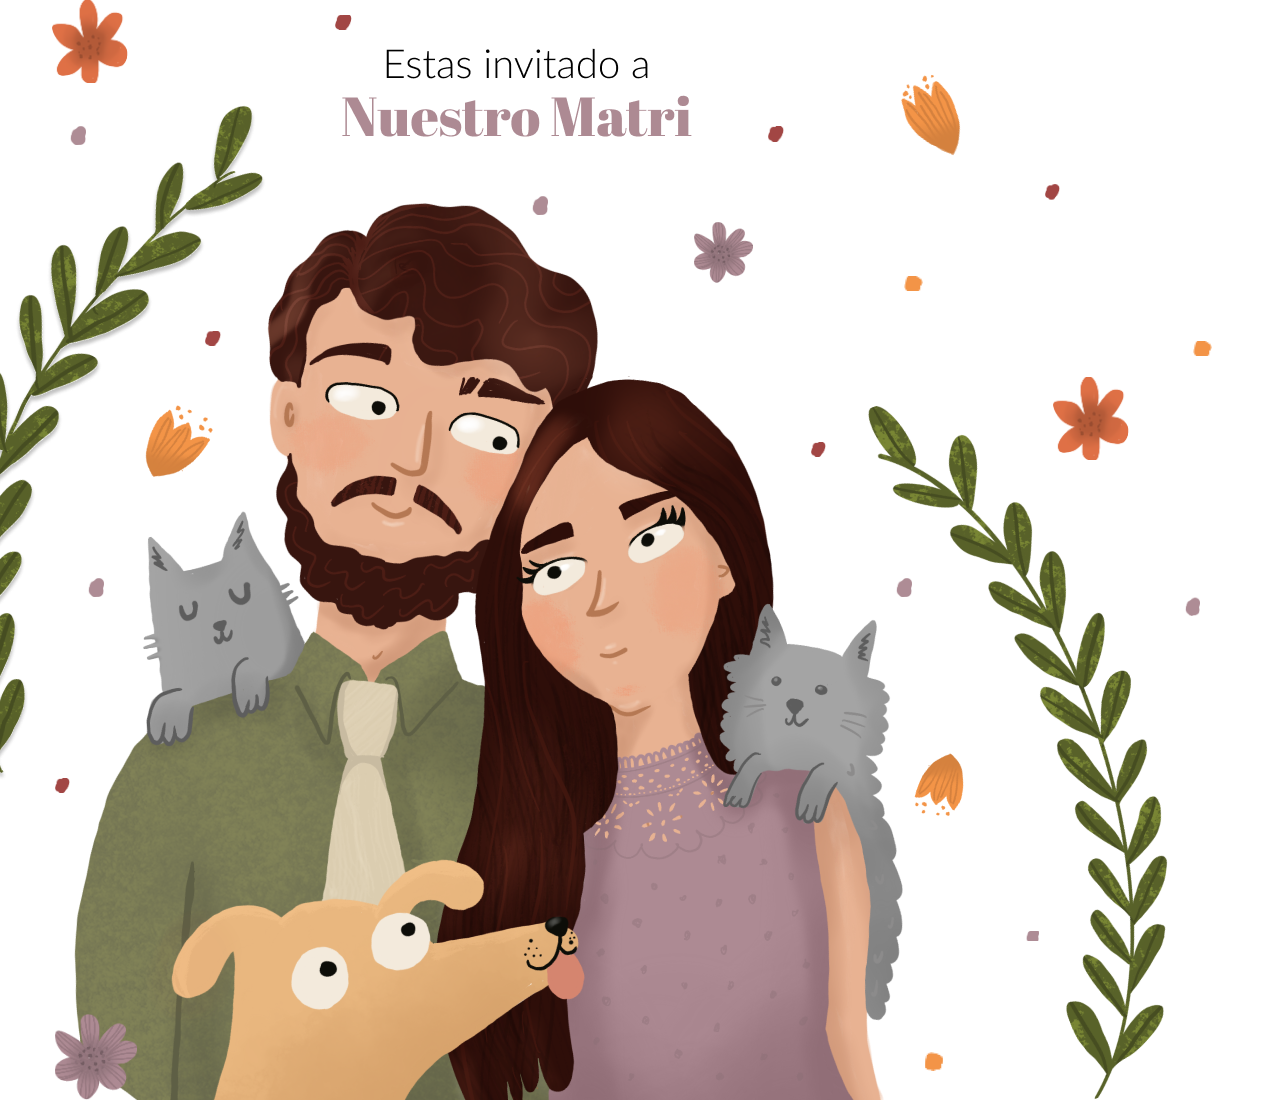
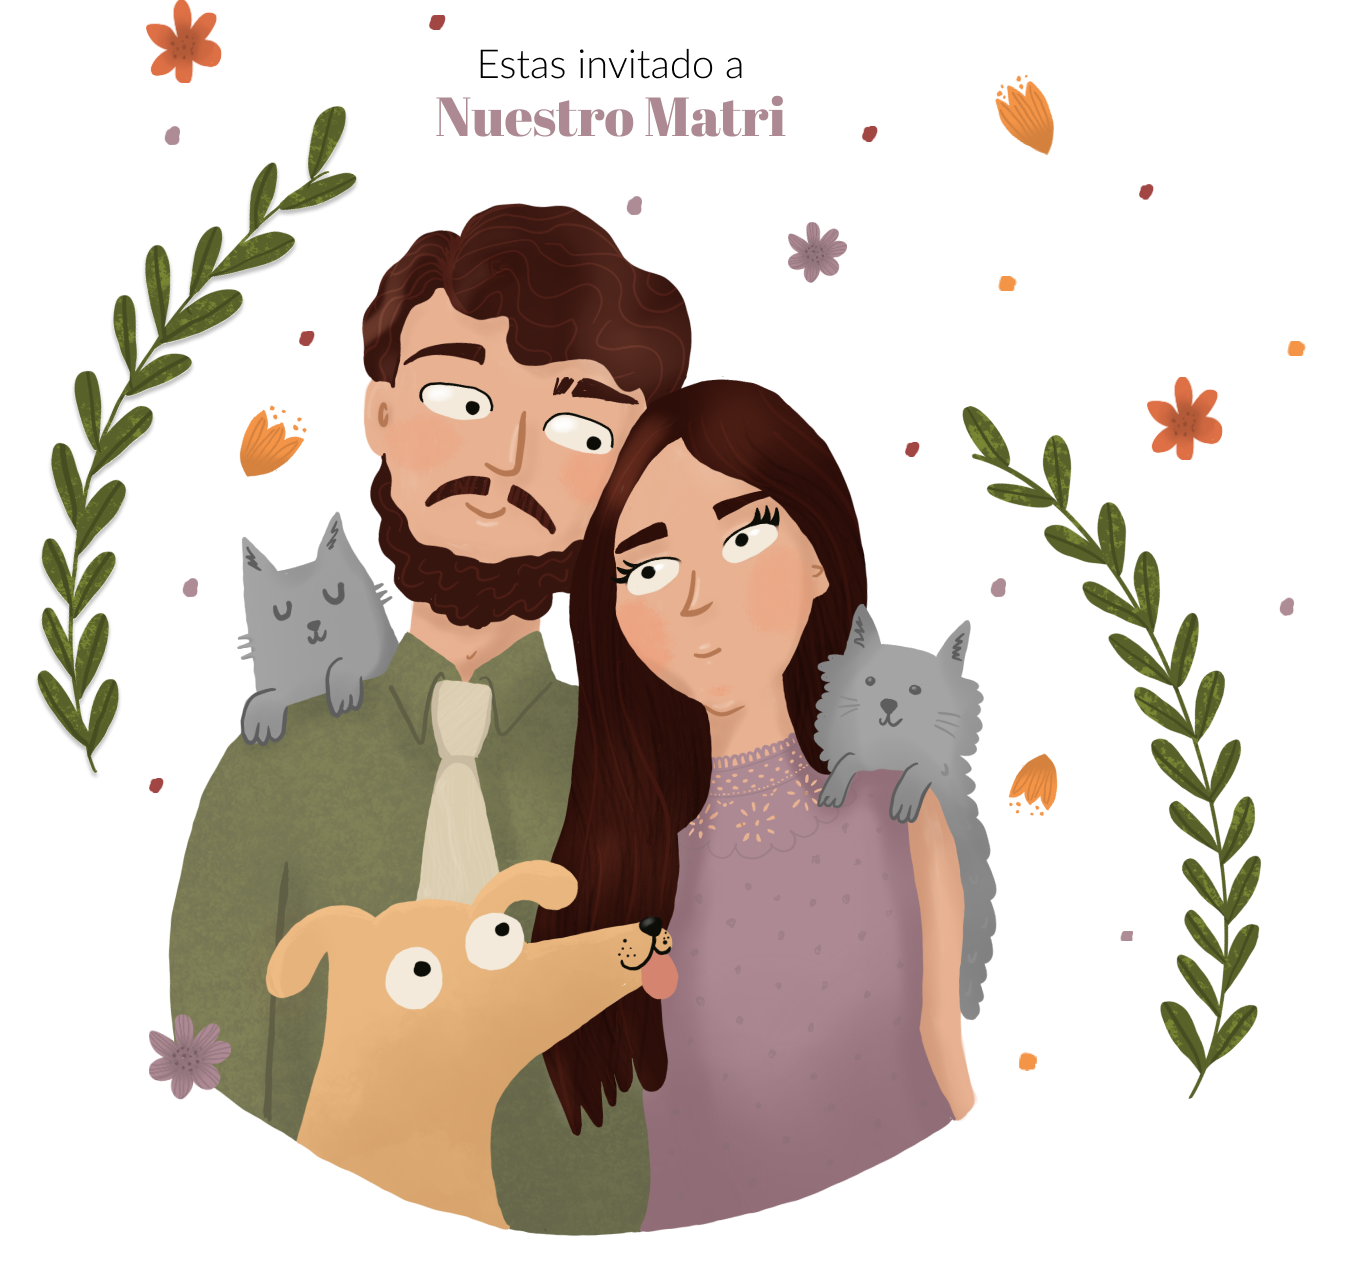
desktop view responsive

diff --git a/public/stylesheets/style.css b/public/stylesheets/style.css
@@ -1,8 +1,13 @@
+html{
+  min-height: 100%;
+  background-color: #F3EADA;
+}
 body{
   font-family: 'Abril Fatface', cursive;
   font-size: 2vmin;
   margin: 0;
   height: 100vh;
+
 }
 main{
   background-image: url("../images/portada.png");
@@ -14,7 +19,7 @@ main{
 .nav{
   overflow: hidden;
   position: absolute;
-  bottom: 0;
+  bottom: -10%;
   width: 100%;
   height: 45%;
   display: flex;
@@ -224,7 +229,7 @@ button{
 .form-overlay{
   position: fixed;
   z-index: 1;
-  width: 100%;
+  width: 100vh;
   overflow: auto;
   pointer-events: none;
   bottom: 0;
@@ -249,13 +254,14 @@ right: 0;
   color: #385420;
   display: flex;
   flex-direction: column;
+  margin-top: 10vh;
 }
 
 .form-header{
 display: grid;
 grid-template-columns: repeat(6, 1fr);
 gap: 5px;
-padding: 2vh 2vh 0 3vh;
+padding: 6vh 2vh 0 3vh;
 
 }
 .form-title{
@@ -281,6 +287,7 @@ margin: 2vh 0 0 0;
 padding: 0 3em 0 3em;
 text-align: start;
 height: 100%;
+margin-top: 25px;
 }
 .form-body p{
 font-size: 2.5vmax;
@@ -386,7 +393,7 @@ input.radio{
 
 .tab{
   display: none;
-  position: absolute;
+  position: relative;
   z-index: 1;
   width: 100%;
   overflow: auto;
@@ -436,35 +443,172 @@ input.radio{
 @media only screen and (min-width: 400px) {
   main{
     background-image: url("../images/portada_escritorio.png");
-    background-size: contain;
+    background-size: 65%;
     background-attachment: fixed;
     background-repeat: no-repeat;
-    background-position: left;
+    background-position: 1% 16%;
     height: 100%;
   }
-
   .nav{
     right: 0;
-    width: 40%;
+    width: 46%;
     height: 100%;
+    justify-content: normal;
+    align-items: flex-end;
   
   }
   .nav::after{
-    content:'';
-    position:absolute;
-    bottom:60%;
-    width:100%;
-    height:100%;
-    border-radius:100%;
-    box-shadow: 0px 300px 0px 300px #385420;
+    content: '';
+    position: absolute;
+    bottom: -18%;
+    width: 185%;
+    height: 139%;
+    border-radius: 50%;
+    box-shadow: 41px 200px 87px 389px #385420;
+    right: 68%;
+  }
+  .nav h1{
+    margin: 4% 0% 10% 5%;
+    align-self: center;
+    font-size: 6vmin;
   }
   .menu{
-    display: flex;
-    flex-direction: column;
-    justify-content: space-around;
-    z-index: 1;
+    align-items: flex-end;
     text-align: center;
+    flex-direction: column;
     color: white;
-    margin-bottom: 10px;
+    margin: 0 12% 0 0;
+    gap: 1rem;
   }
+  .menu-boton{
+    flex-direction: row-reverse;
+    align-items: normal;
+    justify-content: normal;
+  }
+  .menu-boton label img {
+    height: 3rem;
+  }
+  .menu-boton label.btn {
+    margin-left: 1.5rem;
+  }
+  #icono-regalo{
+    height: 3.3rem;
+  }
+  .modal-overlay{
+    position: fixed;
+    z-index: 1;
+    width: 50%;
+    overflow: auto;
+    pointer-events: none;
+    bottom: 0;
+    right: -100%;
+    transition: 1.5s;
+    height: 100%;
+    overflow: visible;
+    /* margin: 50% 0 0 0; */
+    
+}
+.modal-overlay.active{
+  pointer-events: initial;
+  bottom: 0;
+  right: 0;
+}
+.modal-content {
+  width: 100%;
+  height: 100%;
+  color: #fff;
+  box-shadow: 8px -4px 20px 3px rgb(69 69 69 / 50%);
+  overflow: visible;
+}
+.modal-title {
+  grid-column: 1/5;
+}
+.modal-title h1 {
+  font-size: 6vmin;
+}
+.modal-body {
+  display: flex;
+  flex-direction: column;
+  gap: 10px;
+}
+.modal-body h2 {
+  font-size: 16px;
+  display: flex;
+  flex-direction: column;
+}
+.modal-body .btn-blanco {
+  width: 60%;
+  margin-inline: auto;
+}
+.modal-body .btn-transparente {
+  width: 60%;
+  margin-inline: auto;
+}
+.ripple{
+  height: 2.3em;
+  font-size: 1.4em;
+}
+.modal-body p {
+  font-size: 1.5vmax;
+}
+.direccion img{
+  height: 1rem;
+  margin-block: auto;
+}
+.closeBtn {
+  height: 65%;
+}
+.form-overlay{
+  position: fixed;
+  z-index: 1;
+  width: 50%;
+  overflow: auto;
+  pointer-events: none;
+  bottom: 0;
+  right: -100%;
+  transition: 1.5s;
+  overflow: visible;
+
+}
+
+.form-content{
+  background-color:  #FFFFFF;
+  width: 100%;
+  height: 100vh;
+  text-align: center;
+  color: #385420;
+  display: flex;
+  flex-direction: column;
+  border-radius: 4.4em 0 0 4.4em;
+  box-shadow: 8px -4px 20px 3px rgb(69 69 69 / 50%);
+
+}
+
+.tab{
+  display: none;
+  position: absolute;
+  z-index: 1;
+  width: 100%;
+  overflow: auto;
+  pointer-events: visible;
+  bottom: 0;
+  right: -100%;
+  transition: 1s;
+  width: 100%;
+  height: 80vh;
+  
+}
+.tab.active.siguiente{
+
+  right: 0;
+  z-index: -1;
+  transition: 0ms;
+}
+.tab.active{
+
+  right: 0;
+  
+}
+
+
 }
